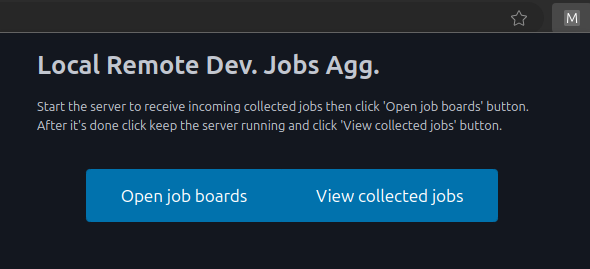
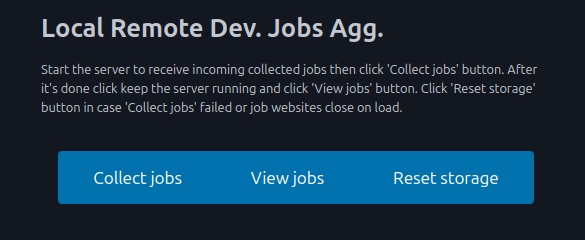
feat: added an reset state button in case scrapping fails (no internet or other errors)

diff --git a/chrome-extension/index.html b/chrome-extension/index.html
@@ -15,14 +15,16 @@
         <h3>Local Remote Dev. Jobs Agg.</h3>
 
         <p>
-            Start the server to receive incoming collected jobs then click 'Open job boards' button. After it's done
-            click keep the server running and click 'View collected jobs' button.
+            Start the server to receive incoming collected jobs then click 'Collect jobs' button. After it's done
+            click keep the server running and click 'View jobs' button.
+            Click 'Reset storage' button in case 'Collect jobs' failed or job websites close on load.
         </p>
 
         <div style="display: grid; place-content: center; margin-bottom: 1rem;">
             <div role="group" style="margin-top: 1rem;">
-                <button id="open-tabs" role="button">Open job boards</button>
-                <a href="http://localhost:3000" target="_blank" role="button">View collected jobs</a>
+                <button id="open-tabs" role="button">Collect jobs</button>
+                <a href="http://localhost:3000" target="_blank" role="button">View jobs</a>
+                <button id="reset-state" role="button">Reset storage</button>
             </div>
         </div>
 

diff --git a/chrome-extension/index.js b/chrome-extension/index.js
@@ -3,3 +3,9 @@ document.getElementById("open-tabs").addEventListener("click", () => {
     chrome.storage.sync.clear()
     chrome.runtime.sendMessage({ msg: "startScrapping" })
 })
+
+
+document.getElementById("reset-state").addEventListener("click", () => {
+    chrome.storage.sync.clear()
+})
+

diff --git a/README.md b/README.md
@@ -11,8 +11,8 @@ Fork it and modify it with your own prefered job boards.
 - load extension in browser (`edge://extensions/` or `chrome://extensions/` then `Load unpacked` point to `chrome-extension` folder);
 - run `bun install`;
 - run `bun server.ts`;
-- click `Open job boards` button (let it do it's thing);
-- after it's done, keep the server running and click `View collected jobs` button;
+- click `Collect jobs` button (let it do it's thing);
+- after it's done, keep the server running and click `View jobs` button;
 
 You can checkout the remote job boards scrapped in the chrome-extension/manifest.json file `content_scripts.matches` and in the `service-worker.js` in `JOB_BOARDS` constant.
 
@@ -28,10 +28,10 @@ The interface:
 
 ## How it works?
 
-When you click on the extension button `Open job boards` a chrome runtime event `startScrapping` is sent to the `service-worker.js` which opens in a new window a job board url. 
+When you click on the extension button `Collect jobs` a chrome runtime event `startScrapping` is sent to the `service-worker.js` which opens in a new window a job board url. 
 Once the url is loaded in a new window `content-script.js` will be invoked and the page will be scrapped based on the `mapper` object. Data scrapped is sent to the server (built with [HonoJs](https://hono.dev/)) and saved into a sqlite database.
 The `content-script.js` once is finished scrapping and sending the data will also emit a chrome runtime event `closeTab` to `service-worker.js` which will close the window/tab opened.
-If something goes wrong an alert popup will be invoked on the website with the issue and if posible the error will be sent and saved on the server.
+If something goes wrong an alert popup will be invoked on the website with the issue and if posible the error will be sent and saved on the server. Click 'Reset storage' button in case 'Collect jobs' failed or job websites close on load.
 
 
 
